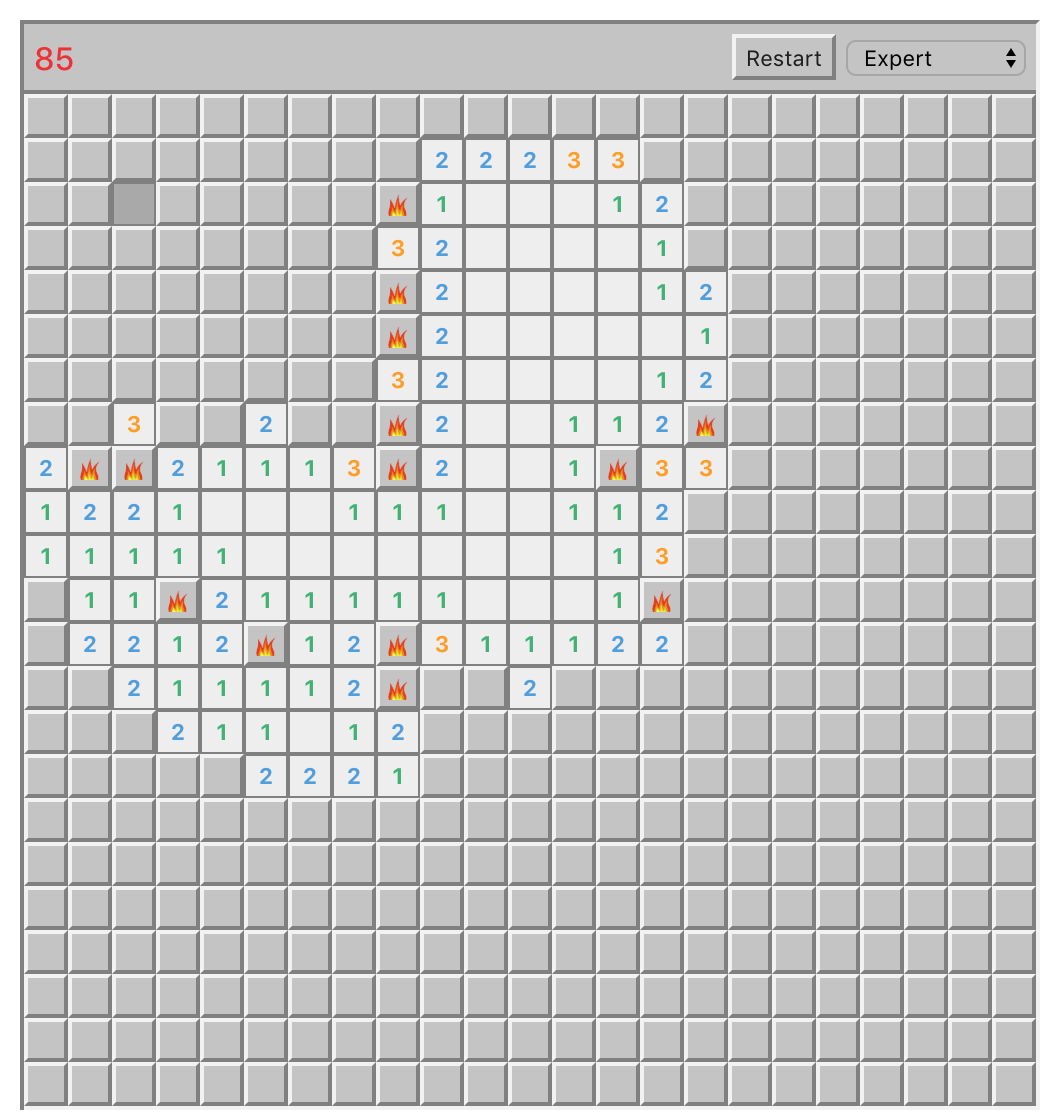
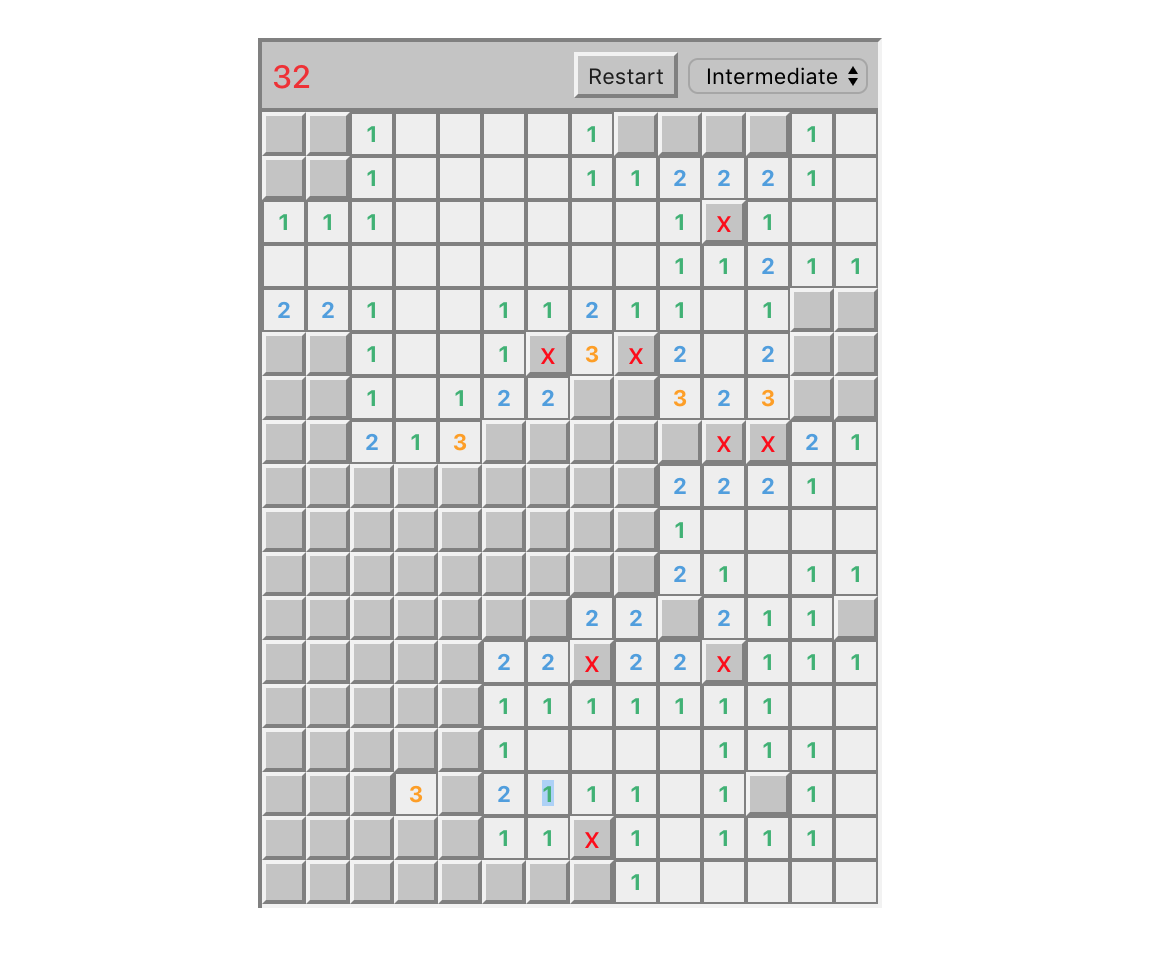
style/updated images and README

diff --git a/src/components/Cell.jsx b/src/components/Cell.jsx
@@ -37,7 +37,7 @@ export function Cell(props) {
 
   return(
     <div 
-      className={`cell ${isUncovered ? 'uncovered' : ''}`}
+      className={`cell ${isUncovered ? 'uncovered' : ''} ${flagged ? 'noHover': ''}`}
       onClick={onCellClick}
       onDoubleClick={onCellDoubleClick}
       onContextMenu={(e) => onCellRightClick(e)}
@@ -48,7 +48,6 @@ export function Cell(props) {
           ${(hasMine && isUncovered) || (hasMine && gameOver) ? 'mine' : ''} 
           ${flagged ? 'flagged' : ''}`}
       >
-      {flagged ? 'X' : ''}
       {(numMinesAround && !hasMine && isUncovered) ? numMinesAround : ''}
       </div>
     </div>

diff --git a/src/components/Cell.scss b/src/components/Cell.scss
@@ -70,15 +70,19 @@
   }
 
   .cell_content.flagged {
-    color: red;
-    font-weight: 600;
+    background-image: url('../assets/img/X.png');
 
     &.mine {
       background-image: none;
     }
+  }
 
-    &:hover {
-      cursor: default; 
-    }
+  &.noHover:hover {
+    cursor: default; 
+    background-color: #c4c4c4;
+    border-top: 2px solid #f2f2f2;
+    border-left: 2px solid #f2f2f2;
+    border-right: 2px solid gray;
+    border-bottom: 2px solid gray;
   }
 }

diff --git a/README.md b/README.md
@@ -16,4 +16,9 @@ Head over to [http://localhost:3000](http://localhost:3000) to enjoy!
 
 * Double click on a cell to open all surrounding cells of a center cell
 
-However, it will open up only when the number of flagged cells and the number indicated in the center cell matches.
+  * However, it will open up only when the number of flagged cells and the number indicated in the center cell matches.
+
+### Copyright
+
+Fire image used for when the mine explodes is from [wikipedia](https://en.m.wikipedia.org/wiki/File:FireIcon.svg).
+Other images used are created with [pixilart](https://https://www.pixilart.com/).
